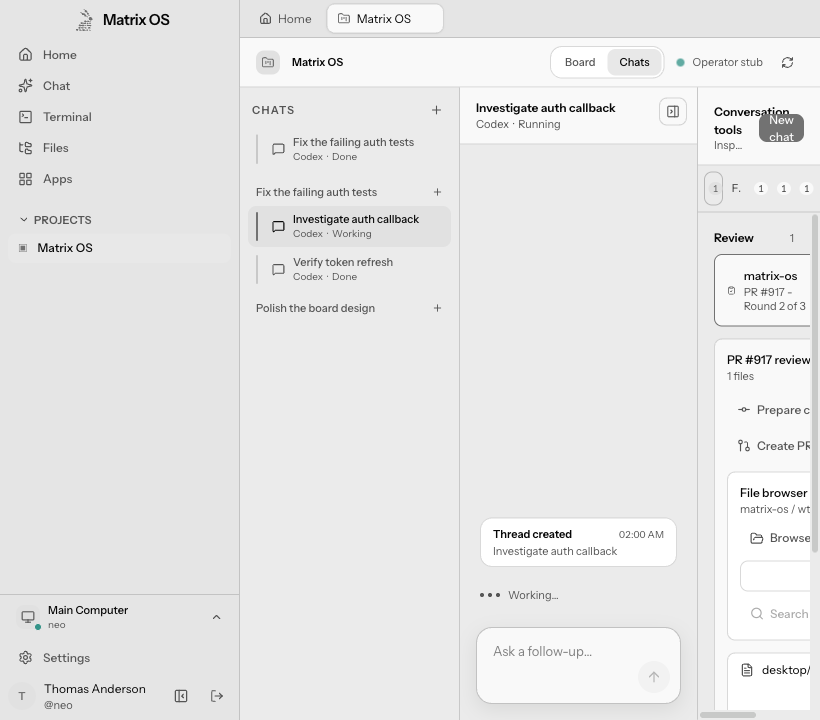
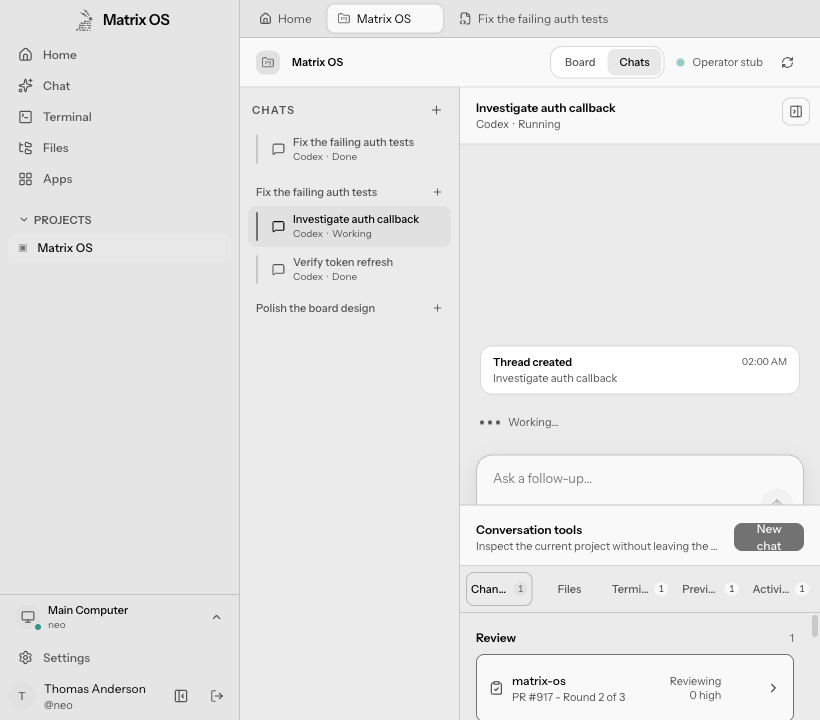
fix(desktop): make inspector layout responsive

diff --git a/desktop/src/renderer/src/features/project/ProjectChatsView.tsx b/desktop/src/renderer/src/features/project/ProjectChatsView.tsx
@@ -73,6 +73,8 @@ export default function ProjectChatsView({ projectId, active }: { projectId: str
   const composerRequest = useProjectChatLauncher((s) => s.composerRequest);
   const runtimeScope = useConnection(codingAgentRuntimeScope);
   const inspectorEntry = useInspectorLayout((s) => s.entries[projectId]);
+  const inspectorHydrated = useInspectorLayout((s) => s.hydratedScope === runtimeScope);
+  const narrowInspectorLayout = useNarrowInspectorLayout();
   const [composerSeed, setComposerSeed] = useState<ComposerSeed | null>(null);
   const [composerOpen, setComposerOpen] = useState(false);
   const [inspectorTabOverride, setInspectorTabOverride] = useState<AgentConversationInspectorTab | null>(null);
@@ -108,6 +110,29 @@ export default function ProjectChatsView({ projectId, active }: { projectId: str
     useProjectWorkspaces.getState().ensureRuntimeScope(runtimeScope);
     void ensureWorkspace(projectId);
   }, [ensureWorkspace, projectId, projectWorkspaceEnabled, runtimeScope]);
+
+  const inspectorCollapsed = inspectorEntry?.collapsed ?? false;
+  const inspectorWidthPct = inspectorEntry?.widthPct ?? DEFAULT_INSPECTOR_WIDTH_PCT;
+
+  // Review focus can originate outside the inspector (for example, from a
+  // notification). Expand first so the inspector mounts and can select and
+  // consume the requested Changes focus.
+  useEffect(() => {
+    if (
+      !active
+      || !inspectorHydrated
+      || !inspectorCollapsed
+      || reviewFocusRequestId <= reviewFocusConsumedId
+    ) return;
+    useInspectorLayout.getState().setCollapsed(projectId, false);
+  }, [
+    active,
+    inspectorCollapsed,
+    inspectorHydrated,
+    projectId,
+    reviewFocusConsumedId,
+    reviewFocusRequestId,
+  ]);
 
   // The shared snapshot store follows the ACTIVE project tab's selection.
   // Background tabs keep their per-project selection in the view store but
@@ -260,8 +285,6 @@ export default function ProjectChatsView({ projectId, active }: { projectId: str
   // Slice 2 hero layout: the conversation and the tools inspector sit in a
   // resizable split; collapsing the inspector yields a full-width hero
   // transcript. Width and collapsed state persist per project.
-  const inspectorCollapsed = inspectorEntry?.collapsed ?? false;
-  const inspectorWidthPct = inspectorEntry?.widthPct ?? DEFAULT_INSPECTOR_WIDTH_PCT;
   const inspectorRegionId = `project-${projectId}-inspector`;
 
   // The inspector tab is controlled so live surfaces can gate on visibility:
@@ -422,7 +445,11 @@ export default function ProjectChatsView({ projectId, active }: { projectId: str
         onNewChat={(taskId) => void openNewChat(taskId)}
         onRetry={() => void refreshWorkspace(projectId)}
       />
-      {inspectorCollapsed ? (
+      {!inspectorHydrated ? (
+        <div className="flex min-h-0 min-w-0 flex-1 flex-col overflow-hidden">
+          {conversationColumn}
+        </div>
+      ) : inspectorCollapsed ? (
         <div className="relative flex min-h-0 min-w-0 flex-1 flex-col">
           {conversationColumn}
           <InspectorToggle
@@ -433,14 +460,20 @@ export default function ProjectChatsView({ projectId, active }: { projectId: str
         </div>
       ) : (
         <Group
-          orientation="horizontal"
+          orientation={narrowInspectorLayout ? "vertical" : "horizontal"}
           className="flex min-h-0 min-w-0 flex-1"
-          defaultLayout={{ conversation: 100 - inspectorWidthPct, inspector: inspectorWidthPct }}
-          onLayoutChange={handleSplitLayout}
+          defaultLayout={narrowInspectorLayout
+            ? { conversation: 55, inspector: 45 }
+            : { conversation: 100 - inspectorWidthPct, inspector: inspectorWidthPct }}
+          onLayoutChange={narrowInspectorLayout ? undefined : handleSplitLayout}
         >
           {/* v4 reads numeric minSize/maxSize as PIXELS — always pass "%"
               strings or the inspector clamps to a tiny pixel sliver. */}
-          <Panel id="conversation" minSize={`${100 - MAX_INSPECTOR_WIDTH_PCT}%`} className="flex min-h-0 min-w-0 flex-col">
+          <Panel
+            id="conversation"
+            minSize={narrowInspectorLayout ? "45%" : `${100 - MAX_INSPECTOR_WIDTH_PCT}%`}
+            className="flex min-h-0 min-w-0 flex-col"
+          >
             <div className="relative flex min-h-0 min-w-0 flex-1 flex-col">
               {conversationColumn}
               <InspectorToggle
@@ -451,15 +484,20 @@ export default function ProjectChatsView({ projectId, active }: { projectId: str
             </div>
           </Panel>
           <Separator
-            className="group/sep relative w-px shrink-0 cursor-col-resize outline-none"
+            className={narrowInspectorLayout
+              ? "group/sep relative h-px w-full shrink-0 cursor-row-resize outline-none"
+              : "group/sep relative w-px shrink-0 cursor-col-resize outline-none"}
             style={{ background: "var(--border-subtle)" }}
           >
-            <span className="absolute inset-y-0 -left-1 -right-1 transition-colors duration-100 group-hover/sep:bg-[var(--accent-muted)]" />
+            <span className={narrowInspectorLayout
+              ? "absolute -bottom-1 -top-1 inset-x-0 transition-colors duration-100 group-hover/sep:bg-[var(--accent-muted)]"
+              : "absolute inset-y-0 -left-1 -right-1 transition-colors duration-100 group-hover/sep:bg-[var(--accent-muted)]"}
+            />
           </Separator>
           <Panel
             id="inspector"
-            minSize={`${MIN_INSPECTOR_WIDTH_PCT}%`}
-            maxSize={`${MAX_INSPECTOR_WIDTH_PCT}%`}
+            minSize={narrowInspectorLayout ? "30%" : `${MIN_INSPECTOR_WIDTH_PCT}%`}
+            maxSize={narrowInspectorLayout ? "55%" : `${MAX_INSPECTOR_WIDTH_PCT}%`}
             className="flex min-h-0 min-w-0 flex-col"
           >
             {inspectorPanel}
@@ -468,6 +506,27 @@ export default function ProjectChatsView({ projectId, active }: { projectId: str
       )}
     </div>
   );
+}
+
+const NARROW_INSPECTOR_MEDIA_QUERY = "(max-width: 1099px)";
+
+function useNarrowInspectorLayout(): boolean {
+  const [narrow, setNarrow] = useState(() => (
+    typeof window !== "undefined"
+    && typeof window.matchMedia === "function"
+    && window.matchMedia(NARROW_INSPECTOR_MEDIA_QUERY).matches
+  ));
+
+  useEffect(() => {
+    if (typeof window.matchMedia !== "function") return undefined;
+    const mediaQuery = window.matchMedia(NARROW_INSPECTOR_MEDIA_QUERY);
+    setNarrow(mediaQuery.matches);
+    const update = (event: MediaQueryListEvent) => setNarrow(event.matches);
+    mediaQuery.addEventListener("change", update);
+    return () => mediaQuery.removeEventListener("change", update);
+  }, []);
+
+  return narrow;
 }
 
 // Collapse toggle for the tools inspector. Lives in the conversation pane's

diff --git a/tests/desktop/project-chats-view-layout.test.tsx b/tests/desktop/project-chats-view-layout.test.tsx
@@ -31,17 +31,21 @@ const NOW = "2026-07-12T12:00:00.000Z";
 const panelsMock = vi.hoisted(() => ({
   lastDefaultLayout: undefined as Record<string, number> | undefined,
   lastOnLayoutChange: undefined as ((layout: Record<string, number>) => void) | undefined,
+  lastOrientation: undefined as "horizontal" | "vertical" | undefined,
 }));
 
 vi.mock("react-resizable-panels", () => ({
-  Group: ({ children, defaultLayout, onLayoutChange, className }: {
+  Group: ({ children, defaultLayout, onLayoutChange, className, orientation }: {
     children: React.ReactNode;
     defaultLayout?: Record<string, number>;
     onLayoutChange?: (layout: Record<string, number>) => void;
     className?: string;
+    orientation: "horizontal" | "vertical";
   }) => {
-    panelsMock.lastDefaultLayout = defaultLayout;
+    const initialLayout = React.useRef(defaultLayout);
+    panelsMock.lastDefaultLayout = initialLayout.current;
     panelsMock.lastOnLayoutChange = onLayoutChange;
+    panelsMock.lastOrientation = orientation;
     return <div data-testid="inspector-split" className={className}>{children}</div>;
   },
   Panel: ({ children, id, className }: { children: React.ReactNode; id?: string; className?: string }) => (
@@ -173,7 +177,7 @@ function resetStores() {
   useProjectView.setState({ entries: {}, runtimeScope: null });
   useProjectWorkspaces.setState({ entries: {} });
   useProjectChatLauncher.setState({ composerRequest: null });
-  useInspectorLayout.setState({ entries: {}, runtimeScope: null });
+  useInspectorLayout.setState({ entries: {}, runtimeScope: null, hydratedScope: null });
   useCodingAgentWorkspace.setState({
     status: "idle",
     summary: null,
@@ -205,6 +209,15 @@ describe("ProjectChatsView hero layout", () => {
     globalThis.ResizeObserver = MockResizeObserver as typeof ResizeObserver;
     panelsMock.lastDefaultLayout = undefined;
     panelsMock.lastOnLayoutChange = undefined;
+    panelsMock.lastOrientation = undefined;
+    Object.defineProperty(window, "matchMedia", {
+      configurable: true,
+      value: vi.fn(() => ({
+        matches: false,
+        addEventListener: vi.fn(),
+        removeEventListener: vi.fn(),
+      })),
+    });
     resetStores();
   });
 
@@ -268,6 +281,58 @@ describe("ProjectChatsView hero layout", () => {
     fireEvent.click(screen.getByRole("button", { name: "Show conversation tools" }));
     await screen.findByTestId("inspector-split");
     expect(panelsMock.lastDefaultLayout).toEqual({ conversation: 60, inspector: 40 });
+  });
+
+  it("applies a persisted expanded width before mounting the split", async () => {
+    mockOperator({
+      [INSPECTOR_TASK_KEY]: {
+        order: ["conversation", "inspector"],
+        visible: { conversation: true, inspector: true },
+        sizes: { conversation: 50, inspector: 50 },
+        touchedAt: 1,
+      },
+    });
+
+    render(<ProjectChatsView projectId="matrix-os" active />);
+
+    await screen.findByTestId("inspector-split");
+    expect(panelsMock.lastDefaultLayout).toEqual({ conversation: 50, inspector: 50 });
+  });
+
+  it("reopens a collapsed inspector when a review-focus request arrives", async () => {
+    mockOperator({
+      [INSPECTOR_TASK_KEY]: {
+        order: ["conversation", "inspector"],
+        visible: { conversation: true, inspector: false },
+        sizes: { conversation: 60, inspector: 40 },
+        touchedAt: 1,
+      },
+    });
+    render(<ProjectChatsView projectId="matrix-os" active />);
+    await screen.findByRole("button", { name: "Show conversation tools" });
+
+    act(() => useCodingAgentWorkspace.setState({ reviewFocusRequestId: 1, reviewFocusConsumedId: 0 }));
+
+    expect(await screen.findByRole("button", { name: "Hide conversation tools" })).toBeTruthy();
+    expect(useInspectorLayout.getState().layoutFor("matrix-os").collapsed).toBe(false);
+  });
+
+  it("stacks the conversation and inspector in narrow desktop windows", async () => {
+    Object.defineProperty(window, "matchMedia", {
+      configurable: true,
+      value: vi.fn(() => ({
+        matches: true,
+        addEventListener: vi.fn(),
+        removeEventListener: vi.fn(),
+      })),
+    });
+    mockOperator();
+
+    render(<ProjectChatsView projectId="matrix-os" active />);
+
+    await screen.findByTestId("inspector-split");
+    expect(panelsMock.lastOrientation).toBe("vertical");
+    expect(panelsMock.lastDefaultLayout).toEqual({ conversation: 55, inspector: 45 });
   });
 
   it("persists inspector width changes from the split", async () => {

diff --git a/desktop/src/renderer/src/features/panels/inspector-layout-store.ts b/desktop/src/renderer/src/features/panels/inspector-layout-store.ts
@@ -6,6 +6,7 @@
 // with the same 90-day TTL as task workspace layouts.
 import { create } from "zustand";
 import { z } from "zod/v4";
+import { diagnosticErrorKind } from "../../lib/errors";
 import { invoke } from "../../lib/operator";
 
 export const INSPECTOR_LAYOUT_PREFIX = "project-inspector:";
@@ -62,6 +63,7 @@ const DEFAULT_LAYOUT: InspectorLayout = {
 interface InspectorLayoutState {
   entries: Record<string, InspectorLayout>;
   runtimeScope: string | null;
+  hydratedScope: string | null;
   hydrate: (runtimeScope: string) => Promise<void>;
   layoutFor: (projectId: string) => InspectorLayout;
   setWidthPct: (projectId: string, widthPct: number) => void;
@@ -123,20 +125,24 @@ function persistEntry(projectId: string, entry: InspectorLayout): void {
 }
 
 export function clearInspectorLayoutRuntime(): void {
-  useInspectorLayout.setState({ entries: {}, runtimeScope: null });
+  useInspectorLayout.setState({ entries: {}, runtimeScope: null, hydratedScope: null });
 }
 
 export const useInspectorLayout = create<InspectorLayoutState>()((set, get) => ({
   entries: {},
   runtimeScope: null,
+  hydratedScope: null,
 
   hydrate: async (runtimeScope) => {
-    if (get().runtimeScope === runtimeScope) return;
+    const current = get();
+    if (current.runtimeScope === runtimeScope && current.hydratedScope === runtimeScope) return;
     // Claiming a different runtime drops the previous owner's entries. Keeping
     // them would let the old runtime's collapsed state and width win the merge
     // below and then be persisted back under this runtime's key.
     // The scope is set up front so writes landing during the read still persist.
-    set({ runtimeScope, entries: {} });
+    if (current.runtimeScope !== runtimeScope) {
+      set({ runtimeScope, hydratedScope: null, entries: {} });
+    }
     let persisted: Record<string, InspectorLayout> = {};
     try {
       const stored = await invoke("state:get", { key: "panelLayouts" });
@@ -156,12 +162,15 @@ export const useInspectorLayout = create<InspectorLayoutState>()((set, get) => (
     } catch (err: unknown) {
       console.warn(
         "[inspector-layout] layout could not be loaded:",
-        err instanceof Error ? err.message : String(err),
+        diagnosticErrorKind(err),
       );
     }
     if (get().runtimeScope !== runtimeScope) return;
     // In-memory entries were written after launch — they are newer and win.
-    set((state) => ({ entries: { ...persisted, ...state.entries } }));
+    set((state) => ({
+      entries: { ...persisted, ...state.entries },
+      hydratedScope: runtimeScope,
+    }));
   },
 
   layoutFor: (projectId) => get().entries[projectId] ?? DEFAULT_LAYOUT,

diff --git a/tests/desktop/inspector-layout-store.test.ts b/tests/desktop/inspector-layout-store.test.ts
@@ -44,7 +44,7 @@ function persistedLayout(widthPct: number, collapsed: boolean): CapturedLayout {
 
 describe("inspector-layout-store", () => {
   beforeEach(() => {
-    useInspectorLayout.setState({ entries: {}, runtimeScope: null });
+    useInspectorLayout.setState({ entries: {}, runtimeScope: null, hydratedScope: null });
   });
 
   afterEach(() => {
@@ -106,6 +106,7 @@ describe("inspector-layout-store", () => {
     await useInspectorLayout.getState().hydrate("scope-a");
 
     expect(useInspectorLayout.getState().layoutFor("matrix-os")).toEqual({ widthPct: 45, collapsed: false });
+    expect(useInspectorLayout.getState().hydratedScope).toBe("scope-a");
     expect(useInspectorLayout.getState().layoutFor("website")).toEqual({ widthPct: 25, collapsed: true });
     expect(useInspectorLayout.getState().layoutFor("some-task")).toEqual({
       widthPct: DEFAULT_INSPECTOR_WIDTH_PCT,
